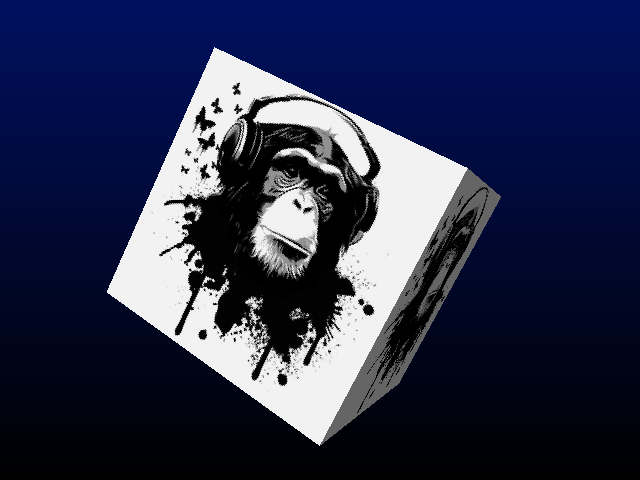
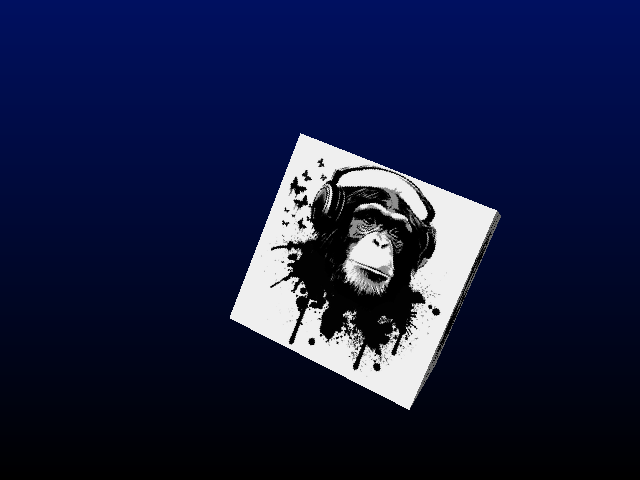
feat(ts-cube): smaller cube wandering smoothly around the screen

Changed region(s): [[0.1562, 0.0938, 0.7812, 0.9375]]

diff --git a/files/effects/ts-cube/src/cube.ts b/files/effects/ts-cube/src/cube.ts
@@ -17,10 +17,13 @@ import { TEXTURE_SIZE, TexVertex, drawTexturedPolygon } from "library/gfx/textur
 import { TrigTables } from "library/maths/projection";
 
 //----- globals
-export const CUBE_SIZE = 100; // half edge length
+export const CUBE_SIZE = 75; // half edge length
 
-const ZOOM = 600; // projection: x * ZOOM / (z + DEPTH)
-const DEPTH = 500; // cube centre distance to the camera (> CUBE_SIZE * sqrt(3))
+export const ZOOM = 600; // projection: x * ZOOM / (z + DEPTH)
+export const DEPTH = 500; // cube centre distance to the camera (> CUBE_SIZE * sqrt(3))
+export const PATH_X = 110; // cube centre wandering range (camera space, keeps the cube on screen)
+export const PATH_Y = 52;
+const PATH_SPEED = 0.008; // wandering speed (radians per frame)
 const STEP_X = 1; // rotation steps per frame (degrees, distinct per axis)
 const STEP_Y = 2;
 const STEP_Z = 3;
@@ -148,6 +151,16 @@ function gradient(w: number, h: number): Uint32Array {
     return out;
 }
 
+// cube centre for a frame: two sines of unrelated frequencies per axis,
+// smooth (no jump, never stops) and never repeating exactly
+export function cubePath(frame: number): Point2D {
+    const t = frame * PATH_SPEED;
+    return {
+        x: PATH_X * (0.6 * Math.sin(1.0 * t) + 0.4 * Math.sin(2.31 * t + 1.7)),
+        y: PATH_Y * (0.6 * Math.sin(1.37 * t + 0.5) + 0.4 * Math.sin(2.83 * t + 2.9)),
+    };
+}
+
 //----- class
 export class Cube extends IAnimation {
     //----- members
@@ -199,13 +212,15 @@ export class Cube extends IAnimation {
         const az = this.az_;
         rotate(VERTICES, cos[ax], sin[ax], cos[ay], sin[ay], cos[az], sin[az], this.rotated_);
 
+        // move the cube in camera space (real 3D: its side shows when off-centre)
+        const offset = cubePath(this.frames_);
         const cx = this.width_ >> 1;
         const cy = this.height_ >> 1;
         for (let i = 0; i < this.rotated_.length; i++) {
             const p = this.rotated_[i];
             const k = ZOOM / (p.z + DEPTH);
-            this.projected_[i].x = cx + p.x * k;
-            this.projected_[i].y = cy + p.y * k;
+            this.projected_[i].x = cx + (p.x + offset.x) * k;
+            this.projected_[i].y = cy + (p.y + offset.y) * k;
         }
 
         // next angles

diff --git a/tests/effects/cube.test.ts b/tests/effects/cube.test.ts
@@ -17,6 +17,11 @@ import {
     rotate,
     isVisible,
     faceShade,
+    cubePath,
+    PATH_X,
+    PATH_Y,
+    ZOOM,
+    DEPTH,
 } from "../../files/effects/ts-cube/src/cube";
 
 //----- helpers
@@ -221,5 +226,43 @@ describe("ts-cube", () => {
         expect(faceShade(world, FACES[1])).toBe(0.4);
         expect(faceShade(world, FACES[3])).toBe(0.4);
         expect(faceShade(world, FACES[5])).toBe(0.4);
+    });
+
+    test("cubePath stays within its range and moves smoothly", () => {
+        let minX = 0;
+        let maxX = 0;
+        let prev = cubePath(0);
+        for (let f = 1; f < 20000; f++) {
+            const p = cubePath(f);
+            expect(Math.abs(p.x)).toBeLessThanOrEqual(PATH_X);
+            expect(Math.abs(p.y)).toBeLessThanOrEqual(PATH_Y);
+            // no jump: less than 3 units (about 3.6 px) between two frames
+            expect(Math.hypot(p.x - prev.x, p.y - prev.y)).toBeLessThan(3);
+            minX = Math.min(minX, p.x);
+            maxX = Math.max(maxX, p.x);
+            prev = p;
+        }
+        // it really wanders across the screen
+        expect(maxX - minX).toBeGreaterThan(PATH_X);
+    });
+
+    test("the moving, rotating cube always stays fully on screen", () => {
+        const out: Point3D[] = VERTICES.map(() => ({ x: 0, y: 0, z: 0 }));
+        for (let f = 0; f < 20000; f += 3) {
+            const a = ((f * 1) % 360) * (Math.PI / 180);
+            const b = ((f * 2) % 360) * (Math.PI / 180);
+            const c = ((f * 3) % 360) * (Math.PI / 180);
+            rotate(VERTICES, Math.cos(a), Math.sin(a), Math.cos(b), Math.sin(b), Math.cos(c), Math.sin(c), out);
+            const o = cubePath(f);
+            for (const p of out) {
+                const k = ZOOM / (p.z + DEPTH);
+                const sx = 320 + (p.x + o.x) * k;
+                const sy = 240 + (p.y + o.y) * k;
+                expect(sx).toBeGreaterThanOrEqual(0);
+                expect(sx).toBeLessThan(640);
+                expect(sy).toBeGreaterThanOrEqual(0);
+                expect(sy).toBeLessThan(480);
+            }
+        }
     });
 });

diff --git a/files/effects/ts-cube/README.md b/files/effects/ts-cube/README.md
@@ -47,6 +47,15 @@ with an ambient part so the faces in the shadow never become black:
 shade = min(1, AMBIENT + DIFFUSE * max(0, normal.light));
 ```
 
+The cube also wanders slowly around the screen. Its centre follows two sine waves of unrelated frequencies on each axis,
+so the path is smooth (no jump, it never stops) but never repeats exactly. The move is done in 3D, before the projection,
+so the side of the cube shows when it is away from the centre:
+
+```javascript
+x = PATH_X * (0.6 * sin(t) + 0.4 * sin(2.31 * t + 1.7));
+y = PATH_Y * (0.6 * sin(1.37 * t + 0.5) + 0.4 * sin(2.83 * t + 2.9));
+```
+
 The background is a vertical gradient from dark blue to black.
 
 The texture (`assets/texture.png`, 256x256) is generated by a script that centres the picture on a white square:
